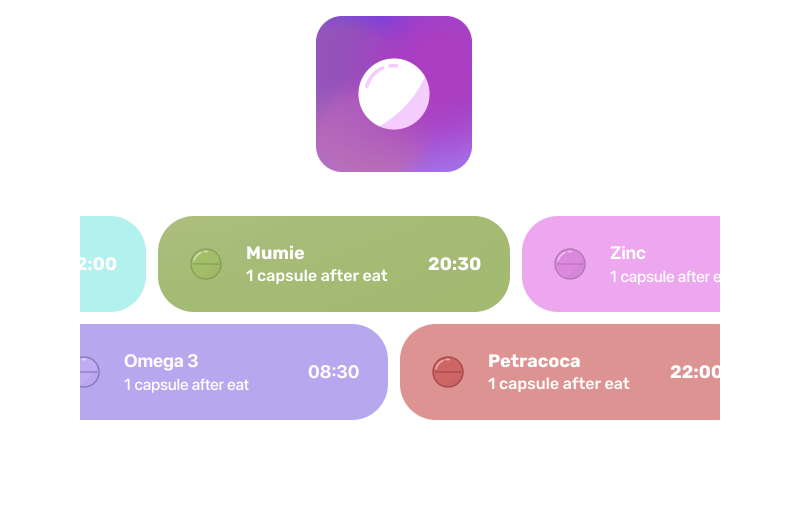
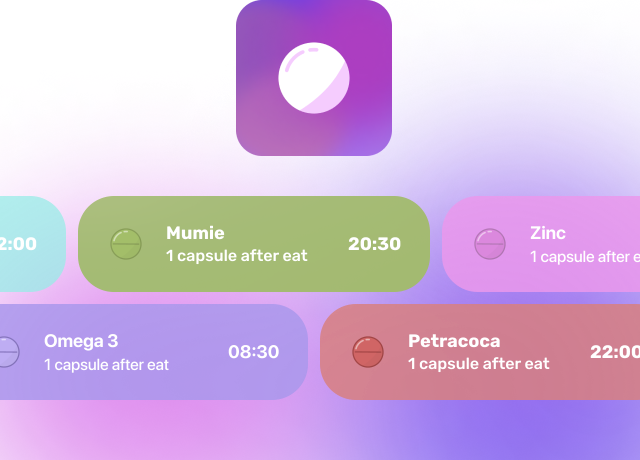
fix: bgImage in project card meRemider

diff --git a/src/components/ProjectList/Project/index.tsx b/src/components/ProjectList/Project/index.tsx
@@ -1,11 +1,11 @@
-import styles from './index.module.scss';
-import { FC } from 'react';
+import styles from "./index.module.scss";
+import { FC } from "react";
 
-import Image from '../../Image';
-import { ProjectProps } from './project.interface';
-import { useNavigate } from 'react-router-dom';
+import Image from "../../Image";
+import { ProjectProps } from "./project.interface";
+import { useNavigate } from "react-router-dom";
 
-import { SCREENS } from '../../../navigation/constants';
+import { SCREENS } from "../../../navigation/constants";
 
 const Project: FC<ProjectProps> = ({
   link,
@@ -16,16 +16,17 @@ const Project: FC<ProjectProps> = ({
   bgImage,
   gradient,
   isDarkContent,
+  isBgImgWrapper,
   ...props
 }) => {
-  const colors = { dark: '#242424', light: '#FFFFFF' };
+  const colors = { dark: "#242424", light: "#FFFFFF" };
   const navigate = useNavigate();
 
   const navigateTo = () => {
-    if (Object.values(SCREENS).includes(link as SCREENS) || link === '') {
+    if (Object.values(SCREENS).includes(link as SCREENS) || link === "") {
       navigate(link);
     } else {
-      window.open(link, '_blank', 'noopener,noreferrer');
+      window.open(link, "_blank", "noopener,noreferrer");
     }
   };
 
@@ -37,9 +38,23 @@ const Project: FC<ProjectProps> = ({
     >
       <div className={styles.aspectRation} />
       <div className={styles.gradient} style={gradient} />
-
-      <Image src={bgImage.x1} images={bgImage} alt={`${name} background`} />
-
+      {isBgImgWrapper ? (
+        <div className={styles.gradient} style={{ overflow: "hidden" }}>
+          <Image
+            src={bgImage.x1}
+            images={bgImage}
+            alt={`${name} background`}
+            className={styles.img}
+          />
+        </div>
+      ) : (
+        <Image
+          src={bgImage.x1}
+          images={bgImage}
+          alt={`${name} background`}
+          className={styles.img}
+        />
+      )}
       <div className={styles.content_wrapper}>
         <div
           style={{
@@ -55,8 +70,9 @@ const Project: FC<ProjectProps> = ({
             {tags.map((tag, index) => (
               <div
                 key={`${tag}-${index}`}
-                className={isDarkContent ? styles.darkBorder : styles.whiteBorder}
-                
+                className={
+                  isDarkContent ? styles.darkBorder : styles.whiteBorder
+                }
               >
                 <span className="interMedium1216">{tag}</span>
               </div>

diff --git a/src/components/ProjectList/Project/index.module.scss b/src/components/ProjectList/Project/index.module.scss
@@ -11,11 +11,16 @@
     }
   }
 
+  .img{
+    position: absolute;
+  }
+
   .aspectRation {
     padding-top: 117.5%;
   }
 
   .gradient {
+    overflow: hidden;
     position: absolute;
     border-radius: $mainRadius;
     right: 0;
@@ -23,7 +28,7 @@
     top: 0;
     bottom: 0;
 
-    margin: 7% 9.6%;
+    margin: 7.5% 10%;
 
     background: var(--gradient);
 
@@ -43,7 +48,7 @@
     top: 0;
     bottom: 0;
 
-    padding: 7% 9.6%;
+    padding: 7.5% 10%;
 
     .content {
       position: relative;

diff --git a/src/components/ProjectList/index.tsx b/src/components/ProjectList/index.tsx
@@ -28,6 +28,7 @@ const ProjectList = ({
             bgImage,
             gradient,
             isDarkContent,
+            isBgImgWrapper,
           },
           index
         ) =>
@@ -56,6 +57,7 @@ const ProjectList = ({
                 bgImage={bgImage}
                 gradient={gradient}
                 isDarkContent={isDarkContent}
+                isBgImgWrapper={isBgImgWrapper}
               />
             </AnimatedBlock>
             // </motion.div>

diff --git a/src/data/projectData.ts b/src/data/projectData.ts
@@ -105,9 +105,10 @@ const data: ProjectProps[] = [
     tags: ['Design', 'Research', 'Mobile'],
     bgImage: { x1: medReminder, x2: medReminder2 },
     gradient: {
-      '--gradient': `#FFFFFF url(${medReminderBackground})`,
+      '--gradient': `radial-gradient(55.08% 48.35% at 64.53% 73.41%, rgba(118, 68, 158, 1) 27.08%, rgba(23, 25, 31, 1) 100%)`,
     },
     isDarkContent: false,
+    isBgImgWrapper: true,
   },
 ];
 

diff --git a/src/components/ProjectList/Project/project.interface.ts b/src/components/ProjectList/Project/project.interface.ts
@@ -12,4 +12,5 @@ export interface ProjectProps {
   isDarkContent: boolean;
   gradient: { [key: string]: string };
   link: SCREENS | string;
+  isBgImgWrapper?: boolean;
 }
